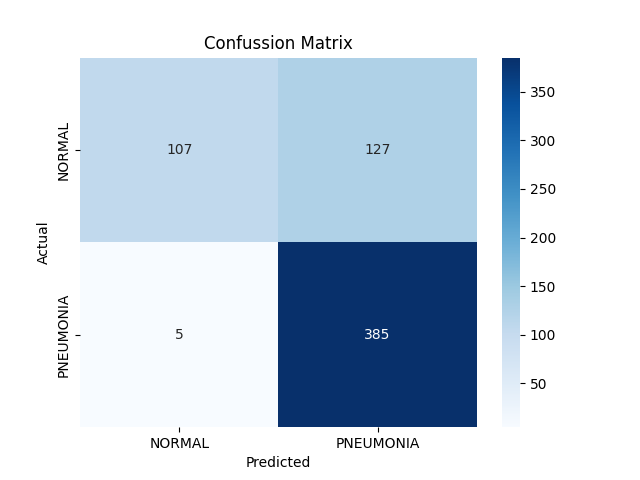
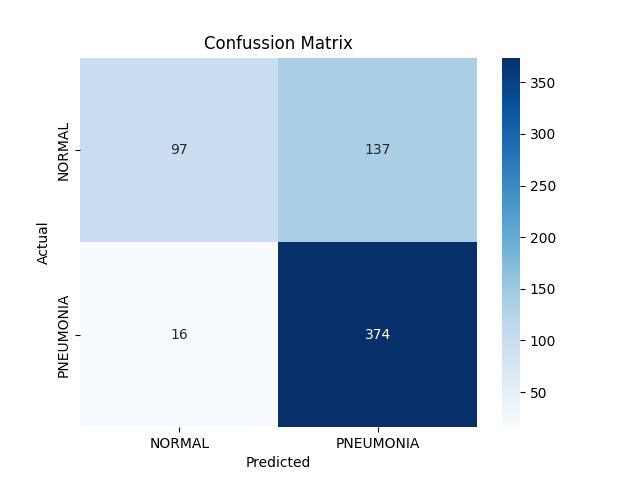
add register model based on metrics

diff --git a/mlops/ml-pipelines/computer-vision/utils/model_register.py b/mlops/ml-pipelines/computer-vision/utils/model_register.py
@@ -1,0 +1,131 @@
+import mlflow
+import mlflow.exceptions
+import datetime
+
+from prefect import flow, task
+from mlflow.store.artifact.runs_artifact_repo import RunsArtifactRepository
+
+
+@task(name='check_metrics_models')
+def checks_metrics_models(f1_score, pred_acc, metrics_regist_model):
+    # Compare metrics between new model and registered model.
+    # If better than registered, should be promote to new production tags (ready to use)
+
+    print(f1_score, pred_acc)
+
+    registered_f1 = metrics_regist_model.get('overall_f1')
+    registered_pred_acc = metrics_regist_model.get('predict_acc')
+
+    print(registered_f1, registered_pred_acc)
+
+    if f1_score > registered_f1 and pred_acc > registered_pred_acc:
+        return "promote"
+    else:
+        return "comparable"
+
+
+@flow(name='update_registed_model')
+def update_registered_model(run_id, f1_score, pred_acc):
+    """
+    This function has responsible to update existing model on MLFlow Registry. 
+    If there are no existing model, the new model will be registered.
+    """
+
+    if f1_score is not None and pred_acc is not None:
+        # Fetch the MLFlow client to interact with registry
+        client = mlflow.tracking.MlflowClient()
+        model_name = 'xray-binary-classif-staging'
+        try:
+            with mlflow.start_run(run_id=run_id) as run:
+                model_versions = client.search_model_versions(f"name='{model_name}'")
+                if model_versions:
+                    # print(f"Model Version Info: {model_versions}")
+                    # Model Version info object
+                    # Model Version Info: [<ModelVersion: aliases=[], creation_timestamp=1747814744576, current_stage='None', description='', last_updated_timestamp=1747814744576, name='xray-binary-classification', run_id='af82cc86d9c3475a8c54a9b8ae0348cd', run_link='', source='mlflow-artifacts:/549623103595319352/af82cc86d9c3475a8c54a9b8ae0348cd/artifacts/model', status='READY', status_message=None, tags={}, user_id='', version='1'>]
+
+                    registered_model = model_versions[0]
+                    registered_name = registered_model.name
+                    registered_version = registered_model.version
+                    registered_run_id = registered_model.run_id
+
+                    # print(f"Model registered tag {registered_model.tags}")
+                    # registered_tag = registered_model.tags
+                    # print(f"Model exists with version {registered_model.version}. Updating model ...")
+
+
+                    # CHEK TEAMS, ini harus diimprove logicsnya.
+                    # Set model tag to production 
+                    latest_version = int(registered_version) + 1
+
+                    # client.set_model_version_tag(model_name, str(latest_version), "validation_status", "pending")
+                    # client.set_registered_model_alias(model_name,  "staging", latest_version)
+                    # print(f"New model for {model_name} has set to STAGING and validation_status to PENDING")
+
+                    # Continue to validation registered model.
+                    run = client.get_run(registered_run_id)
+                    metrics = run.data.metrics
+                    
+                    # Compare models
+                    result = checks_metrics_models(f1_score, pred_acc, metrics)
+                    print(result)
+
+                    if result  =='promote':
+                        print("New model performs better. Promoting to production...")
+
+                        # New model
+                        runs_uri = f"runs:/{run.info.run_id}/{model_name}"
+                        model_src = RunsArtifactRepository.get_underlying_uri(runs_uri=runs_uri)
+                        mv = client.create_model_version(name=model_name, source=model_src, run_id=run.info.run_id) # Update Versi Model
+
+                        print(f"Name: {mv.name}")
+                        print(f"Version: {mv.version}")
+                        print(f"Description: {mv.description}")
+                        print(f"Status: {mv.status}")
+
+
+                        client.set_registered_model_alias(model_name, "production", latest_version) # Set new version to production alias
+                        client.set_model_version_tag(model_name, str(latest_version), "validation_status", "promoted") # Set version tag promoted for new model version
+                        client.set_model_version_tag(model_name, str(latest_version), "stage", "production") # Set new model tag to production
+                        
+                        # Old model
+                        client.delete_registered_model_alias(model_name, "production", registered_version) # delete previous version from production alias
+                        client.set_registered_model_alias(model_name, "archived", registered_version) # Set previous version to archived alias (for rollback)
+                        client.delete_registered_model_tag(model_name, "validation_status", registered_version)
+                        client.delete_registered_model_tag(model_name, "stage", registered_version)
+                        client.set_registered_model_tag(model_name, "stage", "archived") # Set tag stage into archived
+
+
+                        print(f"New {model_name} already promoted to productions")
+                        print(f" Set validation_status to 'promoted' and alias 'production' for version {registered_version}")
+                    else:
+                        # If the new model is comparable, keep the current model in staging
+                        mlflow.set_tag("new_model_version", latest_version)
+                        mlflow.set_tag("validation_status", "comparable")
+                        print("New model is comparable to the registered model. Stay in experiment and create new tag")
+                else:
+                    # Need to fix
+                    # If no model exists, register a new model
+                    print("No model found. Registering a new model...")
+                    model_uri = f"runs:/{run.info.run_id}/model"
+                    client.create_registered_model(model_name)  # Create a new registered model if none exists
+                    client.create_model_version(model_name, model_uri, run.info.run_id)
+                    print("New model version registered.")
+
+        except mlflow.exceptions.MlflowException as e:
+            print(f"Error while interacting with MLflow: {e}")
+            raise
+    else:
+        print("Missing required parameters (loss, acc, or pred_acc). Model update aborted.")
+
+# if __name__ == '__main__':
+#     mlflow.set_tracking_uri("http://localhost:8080")
+#     mlflow.set_experiment("xray-binary-classification")
+
+#     run_id = "af82cc86d9c3475a8c54a9b8ae0348cd"
+#     loss = 0.30335407555103302
+#     acc = 0.9532938694953918
+#     pred_acc = 0.7084615384615384
+#     update_registered_model(run_id, loss, acc, pred_acc)
+
+
+

diff --git a/mlops/ml-pipelines/computer-vision/main.py b/mlops/ml-pipelines/computer-vision/main.py
@@ -6,10 +6,12 @@ import time
 import mlflow.models.signature
 import shutil
 import os
+import datetime
 
 from workflows.preprocessing import preprocessing_data
 from workflows.training import train_pipeline
 from workflows.validation import validate_model
+from utils.model_register import update_registered_model
 
 from tensorflow.keras import models, layers
 from mlflow.models import infer_signature
@@ -42,11 +44,17 @@ def main_pipeline():
     test_dir = './data/chest_xray/test'
 
     # Training Pipeline
-    run_id, y_true, y_prob, y_pred = train_pipeline(train_dir, test_dir)
+    run_id, y_true, y_prob, y_pred, loss, acc = train_pipeline(train_dir, test_dir)
 
     # Model Validation -> part of model validation
-    validate_model(run_id, y_true, y_pred, y_prob, train_dir, test_dir)
+    classif_report, _ , _ = validate_model(run_id, y_true, y_pred, y_prob, train_dir, test_dir)
+    predict_acc = classif_report['predict_acc']
+    f1_score = classif_report['overall_f1']
+
+    # Update register model based on testing accuracy and prediction accuracy
     
+
+    ####### update_registered_model(run_id, f1_score, pred_acc=predict_acc)
     
     # Log input dataset
     # train_dataset = from_tensorflow(train_gen)

diff --git a/mlops/ml-pipelines/computer-vision/workflows/training.py b/mlops/ml-pipelines/computer-vision/workflows/training.py
@@ -1,4 +1,5 @@
 import mlflow
+import datetime
 
 from tensorflow.keras.preprocessing.image import ImageDataGenerator
 from tensorflow.keras import models, layers
@@ -54,6 +55,7 @@ def predict_model(model, test_gen):
 def train_pipeline(train_dir, test_dir):
 
     with mlflow.start_run() as run:
+        mlflow.set_tag("training_date", datetime.datetime.now())
         mlflow.tensorflow.autolog()
         run_id = run.info.run_id
 
@@ -93,8 +95,8 @@ def train_pipeline(train_dir, test_dir):
         y_true, y_prob, y_pred = predict_model(model, test_gen)
         
         # Evaluate
-        # loss, acc = model.evaluate(test_gen)
-        # print(f"Test accuracy: {acc: .4f}")
+        loss, acc = model.evaluate(test_gen)
+        print(f"Test accuracy: {acc: .4f}")
 
         # ------------------------------------------------
         # Archive Param
@@ -121,4 +123,4 @@ def train_pipeline(train_dir, test_dir):
         #     'validation_accuracy': history.history['val_accuracy']
         # })
 
-    return run_id, y_true, y_prob, y_pred
+    return run_id, y_true, y_prob, y_pred, loss, acc

diff --git a/mlops/ml-pipelines/computer-vision/workflows/validations_flow/model_validation.py b/mlops/ml-pipelines/computer-vision/workflows/validations_flow/model_validation.py
@@ -3,7 +3,7 @@ import matplotlib.pyplot as plt
 import mlflow
 
 from prefect import task
-from sklearn.metrics import classification_report, confusion_matrix, roc_auc_score, roc_curve
+from sklearn.metrics import classification_report, confusion_matrix, roc_auc_score, roc_curve, f1_score
 
 
 @task(name='classification report')
@@ -13,6 +13,7 @@ def classif_report(y_true, y_pred, target_names):
     NORMAL_class = report['NORMAL']
     PNEUMONIA_class = report['PNEUMONIA']
     prediction_accuracy = report['accuracy']
+    overall_f1_score = f1_score(y_true, y_pred)
 
     return {
         "NORMAL_precision": NORMAL_class['precision'],
@@ -21,7 +22,8 @@ def classif_report(y_true, y_pred, target_names):
         "PNEUMONIA_precision": PNEUMONIA_class['precision'],
         "PNEUOMONIA_recall":PNEUMONIA_class['recall'],
         "PNEUMONIA_f1": PNEUMONIA_class['f1-score'],
-        "predict_acc": prediction_accuracy
+        "predict_acc": prediction_accuracy,
+        "overall_f1": overall_f1_score
     }
 
 

diff --git a/mlops/ml-pipelines/computer-vision/workflows/validation.py b/mlops/ml-pipelines/computer-vision/workflows/validation.py
@@ -9,11 +9,6 @@ def validate_model(run_id, y_true, y_pred, y_prob, train_dir, test_dir):
 
     with mlflow.start_run(run_id=run_id):
         mlflow.tensorflow.autolog()
-        # Validasi Model
-        ## Classification Report -> Precision, Recall, f1-score
-        ## Confussion Matrix
-        ## ROC
-        ## AUC
 
         _, test_gen, _ = training_augmentations(train_dir, test_dir)
 
@@ -28,3 +23,4 @@ def validate_model(run_id, y_true, y_pred, y_prob, train_dir, test_dir):
         # ROC and AUC
         roc_auc_dict = auc_generator(y_true, y_prob)
         mlflow.log_metrics(roc_auc_dict)
+    return classif_dict, conf_matrix_dict, roc_auc_dict

diff --git a/mlops/ml-pipelines/README.md b/mlops/ml-pipelines/README.md
@@ -53,3 +53,9 @@ Currently there is an error when running mlflow project because of conflict when
 But when not specified it, the pipeline not tracked into "pipeline run" even tho it's finished.
 It could be a BUG from MLFLOW: 
 http://github.com/mlflow/mlflow/issues/4830
+
+
+# Still need to explore
+- Monitoring and Logging
+- CI/CD
+- Workflow Instrumentations
